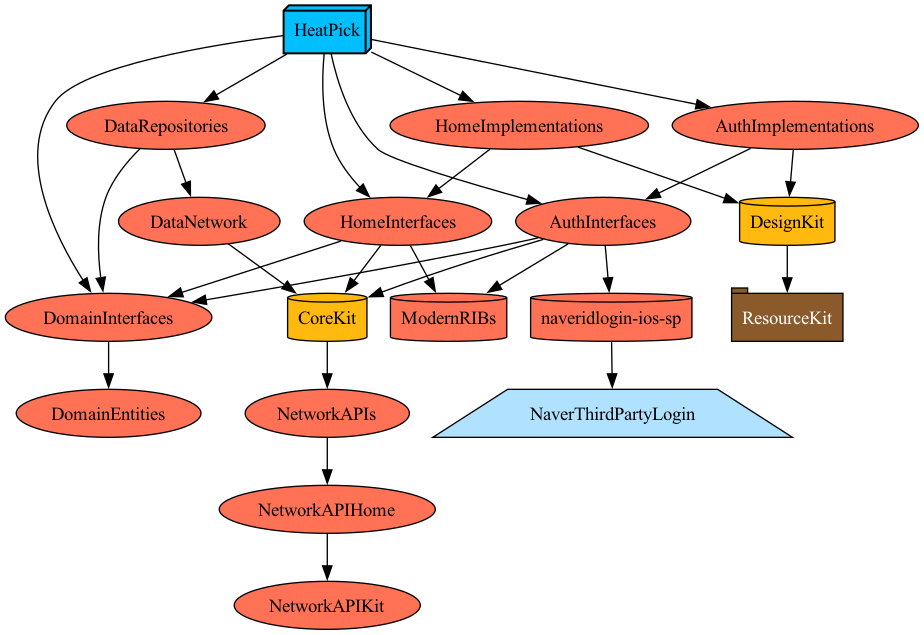
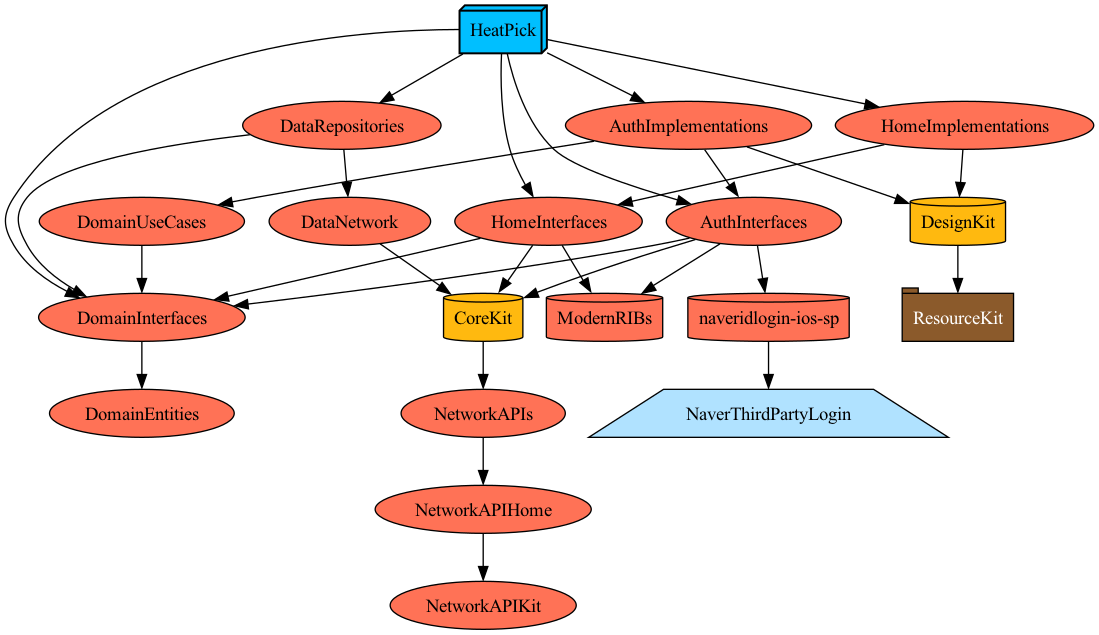
package: ModernRIBs 의존성 변경

diff --git a/client/Targets/Presentation/Auth/Interfaces/Project.swift b/client/Targets/Presentation/Auth/Interfaces/Project.swift
@@ -8,7 +8,6 @@ let project = Project.framework(
     dependencies: [
         .Target.Core.CoreKit,
         .Target.Domain.Interfaces,
-        .SPM.ModernRIBs,
         .SPM.NaverLogin
     ]
 )

diff --git a/client/Targets/Presentation/Home/Interfaces/Project.swift b/client/Targets/Presentation/Home/Interfaces/Project.swift
@@ -8,6 +8,5 @@ let project = Project.framework(
     dependencies: [
         .Target.Core.CoreKit,
         .Target.Domain.Interfaces,
-        .SPM.ModernRIBs
     ]
 )
